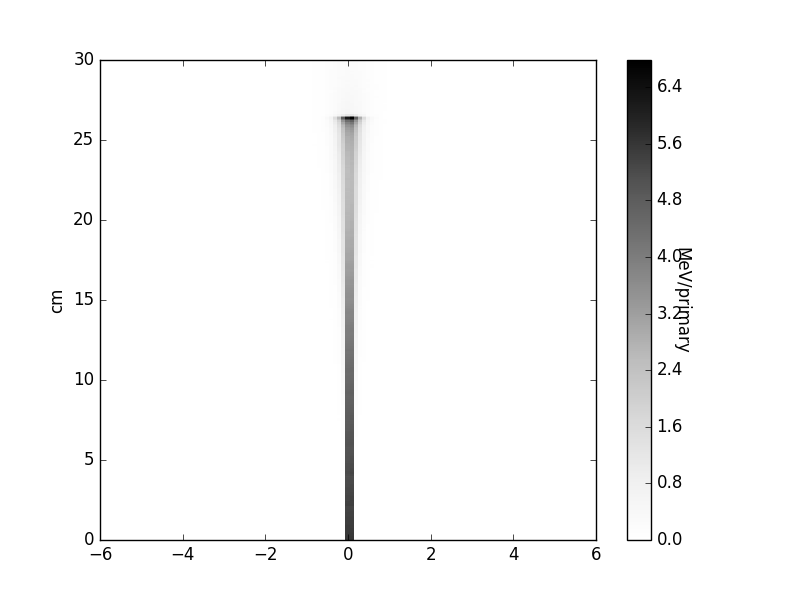
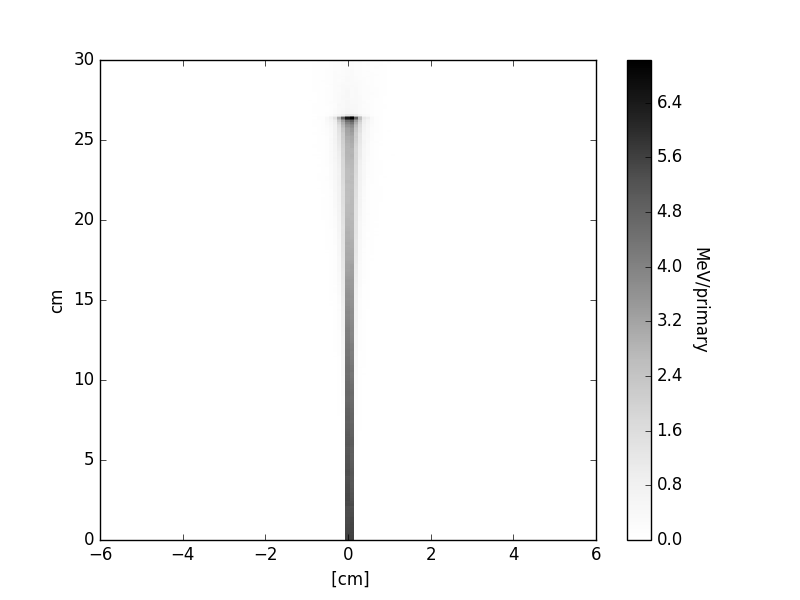
moved colormap label to the right, fixes #156 (#157)
* moved colormap label to the right, fixes #156

* fixed plots in documentation, now proper units are displayed and colormap text doesn't overlap with colorbar

diff --git a/pymchelper/writers/plots.py b/pymchelper/writers/plots.py
@@ -139,7 +139,7 @@ class ImageWriter:
         plt.pcolormesh(xlist, ylist, elist.clip(0.0), cmap=self.colormap)
         plt.ylabel(detector.units[1])
         cbar = plt.colorbar()
-        cbar.set_label(detector.units[4], rotation=270)
+        cbar.set_label(detector.units[4], rotation=270, verticalalignment='bottom')
         base_name, _ = os.path.splitext(self.plot_filename)
         plt.savefig(base_name + "_error.png")
         plt.close()
@@ -200,6 +200,6 @@ class ImageWriter:
             plt.ylabel(detector.units[y_axis_number])
             plt.pcolormesh(xlist, ylist, zlist, cmap=self.colormap)
             cbar = plt.colorbar()
-            cbar.set_label(detector.units[4], rotation=270)
+            cbar.set_label(detector.units[4], rotation=270, verticalalignment='bottom')
         plt.savefig(self.plot_filename)
         plt.close()
